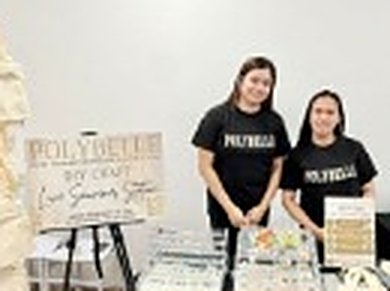
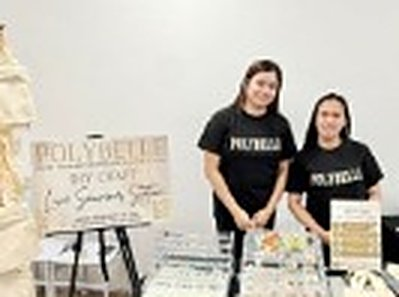
Remove Packages section; add every poster package and service to the photo picker with tabs
Claude-Session: https://claude.ai/code/session_018u4ThwH1vvVPmSaNGAsxuo

diff --git a/index.html b/index.html
@@ -22,7 +22,6 @@
       </a>
       <nav class="nav-links" id="navLinks" aria-label="Main">
         <a href="#venues">Halls</a>
-        <a href="#packages">Packages</a>
         <a href="#gallery">Gallery</a>
         <a href="#reviews">Reviews</a>
         <a href="#contact">Contact</a>
@@ -65,50 +64,6 @@
           <span class="rule"></span>
         </header>
         <div class="venue-grid" id="venueGrid" aria-live="polite"></div>
-      </div>
-    </section>
-
-    <!-- Packages -->
-    <section class="section packages" id="packages">
-      <div class="wrap pk-grid">
-        <div class="pk-intro reveal">
-          <span class="eyebrow">Packages</span>
-          <h2>Everything you need, in one place</h2>
-          <span class="rule left"></span>
-          <p>Book a hall on its own, or let our team plan the whole celebration with a personalized theme. Our packages and services are also available for events at your own venue or home.</p>
-          <p class="pay">Book now, pay later with <b>Tabby</b> or <b>Tamara</b>. Visa and Mastercard accepted.</p>
-          <a href="#book" class="btn btn-dark" data-book-type="Services">Request a package</a>
-        </div>
-        <div class="pk-list">
-          <article class="pk-item reveal" style="--d:1">
-            <span class="pk-num">01</span>
-            <div>
-              <h3>Celebration packages</h3>
-              <p>Gender reveal, baby shower, newborn, pre-birthday and birthday, pre-debut, family portrait and engagement.</p>
-            </div>
-          </article>
-          <article class="pk-item reveal" style="--d:2">
-            <span class="pk-num">02</span>
-            <div>
-              <h3>Wedding journeys</h3>
-              <p>Proposal, registration, prenup, ceremony and reception. Choose one moment or let us shape the whole story.</p>
-            </div>
-          </article>
-          <article class="pk-item reveal" style="--d:3">
-            <span class="pk-num">03</span>
-            <div>
-              <h3>Styling &amp; services</h3>
-              <p>Event styling and themes, catering, customized cakes, photography and videography, a professional host and photo booth.</p>
-            </div>
-          </article>
-          <article class="pk-item reveal" style="--d:4">
-            <span class="pk-num">04</span>
-            <div>
-              <h3>Finishing touches</h3>
-              <p>A mascot surprise, a make-your-own scent station, a DIY craft station, and keepsakes from scented candles to custom favors.</p>
-            </div>
-          </article>
-        </div>
       </div>
     </section>
 
@@ -156,6 +111,7 @@
           <h2>Book your celebration</h2>
           <span class="rule"></span>
           <p class="lead">No payment needed now. We'll confirm availability and your package on WhatsApp.</p>
+          <p class="pay-note">Book now, pay later with <b>Tabby</b> or <b>Tamara</b> · Visa &amp; Mastercard accepted</p>
         </header>
 
         <div class="book-card reveal">
@@ -214,6 +170,7 @@
               </div>
               <p class="hint" id="capHint"></p>
               <p class="sub-label" id="addonLabel">Packages and services you're interested in (optional)</p>
+              <div class="svc-tabs" id="svcTabs" role="tablist" aria-label="Package and service groups"></div>
               <div class="svc-grid" id="addonPick" role="group" aria-labelledby="addonLabel"></div>
             </fieldset>
 
@@ -268,7 +225,7 @@
     <div class="wrap foot-row">
       <a href="#top" class="wordmark small" aria-label="Back to top"><b>POLYBELLE</b><small>Event Halls &amp; Studio</small></a>
       <nav class="foot-links" aria-label="Footer">
-        <a href="#venues">Halls</a><a href="#packages">Packages</a><a href="#gallery">Gallery</a><a href="#book">Reserve</a>
+        <a href="#venues">Halls</a><a href="#gallery">Gallery</a><a href="#book">Reserve</a>
         <a href="admin.html" target="_blank" rel="noopener">Admin login</a>
       </nav>
     </div>

diff --git a/assets/app.js b/assets/app.js
@@ -39,11 +39,24 @@
 
   $("#typeInput").innerHTML = `<option value="">Select occasion…</option>` + C.eventTypes.map((t) => `<option>${esc(t)}</option>`).join("");
   // ---------- packages & services picker (photo cards, managed in the admin)
-  let services = C.addOns.map((name) => ({ name, kind: /package/i.test(name) ? "Package" : "Service" }));
+  let services = C.addOns.map((name) => ({ name, kind: /package/i.test(name) ? "Package" : "Service", category: /package/i.test(name) ? "Full Packages" : "Event Services" }));
+  let svcTab = null;
+  function renderSvcTabs() {
+    const cats = [...(C.serviceCategories || []), ...new Set(services.map((x) => x.category || "Event Services"))]
+      .filter((c, i, arr) => arr.indexOf(c) === i && services.some((x) => (x.category || "Event Services") === c));
+    if (!cats.includes(svcTab)) svcTab = cats[0];
+    const picked = $$('#addonPick input:checked').map((i) => services.find((x) => x.name === i.value)?.category || "Event Services");
+    $("#svcTabs").innerHTML = cats.length > 1 ? cats.map((c) => {
+      const n = picked.filter((p) => p === c).length;
+      return `<button type="button" role="tab" aria-selected="${c === svcTab}" class="${c === svcTab ? "on" : ""}" data-cat="${esc(c)}">${esc(c)}${n ? `<i>${n}</i>` : ""}</button>`;
+    }).join("") : "";
+    $$("#svcTabs button").forEach((b) => b.addEventListener("click", () => { svcTab = b.dataset.cat; renderSvcTabs(); }));
+    $$("#addonPick .svc").forEach((el) => (el.hidden = cats.length > 1 && el.dataset.cat !== svcTab));
+  }
   function renderServices() {
     const picked = new Set($$('#addonPick input:checked').map((i) => i.value));
     $("#addonPick").innerHTML = services.map((sv) => `
-      <label class="svc">
+      <label class="svc" data-cat="${esc(sv.category || "Event Services")}">
         <input type="checkbox" name="add_ons" value="${esc(sv.name)}" ${picked.has(sv.name) ? "checked" : ""}>
         <span class="svc-card">
           <span class="svc-img">${sv.image_url ? `<img src="${esc(sv.image_url)}" alt="" loading="lazy" onerror="this.remove()">` : ""}<span class="svc-ph" aria-hidden="true">${esc(sv.name.trim()[0] || "")}</span>
@@ -51,8 +64,10 @@
           <span class="svc-body"><b>${esc(sv.name)}</b>${sv.description ? `<small>${esc(sv.description)}</small>` : ""}</span>
         </span>
       </label>`).join("");
+    renderSvcTabs();
   }
   renderServices();
+  $("#addonPick").addEventListener("change", renderSvcTabs);
   $("#dateInput").min = todayDubai();
 
   function renderContact() {
@@ -366,7 +381,7 @@
     sb.from("pb_reviews").select("name,event_type,rating,comment,source,featured,created_at").eq("status", "Approved")
       .order("featured", { ascending: false }).order("created_at", { ascending: false }).limit(60)
       .then(({ data }) => { R.items = data || []; renderReviews(); });
-    sb.from("pb_services").select("name,kind,description,image_url").eq("active", true).order("sort_order").order("name")
+    sb.from("pb_services").select("name,kind,category,description,image_url").eq("active", true).order("sort_order").order("name")
       .then(({ data }) => { if (data?.length) { services = data; renderServices(); update(); } });
     const [venues, settings] = await Promise.all([
       sb.from("pb_venues").select("id,name,tagline,description,capacity,branch,image_url,price_from,sort_order").eq("active", true).order("sort_order").order("name"),

diff --git a/assets/admin.js b/assets/admin.js
@@ -560,7 +560,11 @@
     S.services = data; renderServicesAdmin();
   }
   function renderServicesAdmin() {
-    $("#sgrid").innerHTML = S.services.map((sv) => `
+    const order = C.serviceCategories || [];
+    const rank = (c) => (order.indexOf(c) < 0 ? 99 : order.indexOf(c));
+    const list = S.services.slice().sort((a, b) => rank(a.category) - rank(b.category) || a.sort_order - b.sort_order);
+    let lastCat = null;
+    $("#sgrid").innerHTML = list.map((sv) => (sv.category !== lastCat ? `<h4 class="sg-head">${esc((lastCat = sv.category) || "Other")}</h4>` : "") + `
       <div class="vcard">
         <div class="vimg" style="${sv.image_url ? `background-image:url('${esc(sv.image_url)}')` : ""}">
           <span class="badge ${sv.active ? "b-Confirmed" : "b-Cancelled"}">${sv.active ? "Shown" : "Hidden"}</span>
@@ -578,7 +582,8 @@
   }
   function openService(sv) {
     const isNew = !sv;
-    sv = sv || { name: "", kind: "Service", description: "", image_url: "", sort_order: (S.services.at(-1)?.sort_order || 0) + 1, active: true };
+    sv = sv || { name: "", kind: "Service", category: "Event Services", description: "", image_url: "", sort_order: (S.services.at(-1)?.sort_order || 0) + 1, active: true };
+    const cats = [...new Set([...(C.serviceCategories || []), sv.category].filter(Boolean))];
     const d = $("#vdrawer");
     d.innerHTML = `
       <div class="drawer-head"><div><span class="eyebrow">${isNew ? "New" : "Edit"} package / service</span><h3>${esc(sv.name || "Add an item")}</h3></div><button class="xbtn" data-close aria-label="Close">×</button></div>
@@ -588,6 +593,7 @@
         <input type="hidden" name="image_url" value="${esc(sv.image_url || "")}">
         <label class="field">Name<input name="name" required maxlength="60" value="${esc(sv.name)}" placeholder="e.g. Balloon Arch"></label>
         <div class="grid-2">
+          <label class="field">Group (tab in the booking form)<select name="category">${cats.map((c) => `<option ${c === sv.category ? "selected" : ""}>${esc(c)}</option>`).join("")}</select></label>
           <label class="field">Type<select name="kind">${["Package", "Service"].map((k) => `<option ${k === sv.kind ? "selected" : ""}>${k}</option>`).join("")}</select></label>
           <label class="field">Display order<input type="number" name="sort_order" value="${sv.sort_order}"></label>
         </div>
@@ -620,7 +626,7 @@
     $("#svcForm").addEventListener("submit", async (e) => {
       e.preventDefault();
       const f = e.target;
-      const row = { name: f.name.value.trim(), kind: f.kind.value, description: f.description.value.trim() || null,
+      const row = { name: f.name.value.trim(), kind: f.kind.value, category: f.category.value, description: f.description.value.trim() || null,
         image_url: f.image_url.value || null, sort_order: +f.sort_order.value || 0, active: f.active.checked };
       if (!row.name) return toast("Name is required.");
       const { error } = isNew ? await sb.from("pb_services").insert(row) : await sb.from("pb_services").update(row).eq("id", sv.id);

diff --git a/assets/site.css b/assets/site.css
@@ -357,3 +357,17 @@ label.field { display: grid; gap: 7px; font-size: .74rem; letter-spacing: .14em;
 .svc input:checked + .svc-card .svc-check::after { border-color: #fff; }
 .svc input:focus-visible + .svc-card { outline: 2px solid var(--gold); outline-offset: 2px; }
 @media (max-width: 560px) { .svc-grid { grid-template-columns: 1fr 1fr; gap: 10px; } .svc-body small { display: none; } }
+
+.svc-tabs { display: flex; gap: 4px 22px; flex-wrap: wrap; border-bottom: 1px solid var(--line); margin: 4px 0 4px; }
+.svc-tabs button { position: relative; font: 400 .7rem/1 var(--sans); letter-spacing: .18em; text-transform: uppercase; padding: 12px 0; border: 0; background: none; color: var(--muted); cursor: pointer; }
+.svc-tabs button::after { content: ""; position: absolute; left: 0; right: 0; bottom: -1px; height: 1px; background: var(--ink); transform: scaleX(0); transition: transform .45s var(--ease); }
+.svc-tabs button.on { color: var(--ink); }
+.svc-tabs button.on::after { transform: scaleX(1); }
+.svc-tabs button i { font-style: normal; display: inline-grid; place-items: center; min-width: 17px; height: 17px; margin-left: 6px; padding: 0 5px; border-radius: 999px; background: var(--ink); color: #fff; font-size: .62rem; letter-spacing: 0; }
+.svc[hidden] { display: none; }
+.svc:not([hidden]) .svc-card { animation: svcIn .5s var(--ease) both; }
+@keyframes svcIn { from { opacity: 0; transform: translateY(8px); } }
+.pay-note { margin: 0; font-size: .82rem; letter-spacing: .06em; color: var(--muted); }
+.pay-note b { color: var(--ink); }
+@media (max-width: 560px) { .svc-tabs { flex-wrap: nowrap; overflow-x: auto; scrollbar-width: none; } .svc-tabs::-webkit-scrollbar { display: none; } .svc-tabs button { white-space: nowrap; } }
+.svc-tabs button { display: inline-flex; align-items: center; min-height: 42px; }

diff --git a/assets/config.js b/assets/config.js
@@ -37,6 +37,9 @@ window.PB_CONFIG = {
     "Professional Host", "Photobooth", "Mascot Surprise", "Scent Station", "DIY Craft Station", "Souvenirs",
     "Face Painting", "Video / Audio Guestbook"],
 
+  // Tabs in the booking form's package & service picker (same groups as the package poster)
+  serviceCategories: ["Full Packages", "Wedding Packages", "Mascot Surprise", "Souvenirs & Stations", "Event Services"],
+
   galleryCategories: ["Birthday", "Wedding", "Baby Shower", "Christening", "Gender Reveal", "Cake Smash", "Photobooth", "Corporate"],
 
   // Shown when a venue has no photo yet

diff --git a/assets/admin.css b/assets/admin.css
@@ -130,3 +130,6 @@ dl.kv dd { margin: 0; word-break: break-word; }
 .rcard .stars { color: var(--gold); letter-spacing: 2px; }
 .rcard .stars .off { color: #DCCFC2; }
 .rcard.feat { border-color: var(--gold); box-shadow: inset 0 0 0 1px var(--gold); }
+
+.sg-head { grid-column: 1 / -1; font: 400 .74rem/1 var(--sans); letter-spacing: .2em; text-transform: uppercase; color: var(--gold); margin: 18px 0 -4px; }
+.sg-head:first-child { margin-top: 0; }
